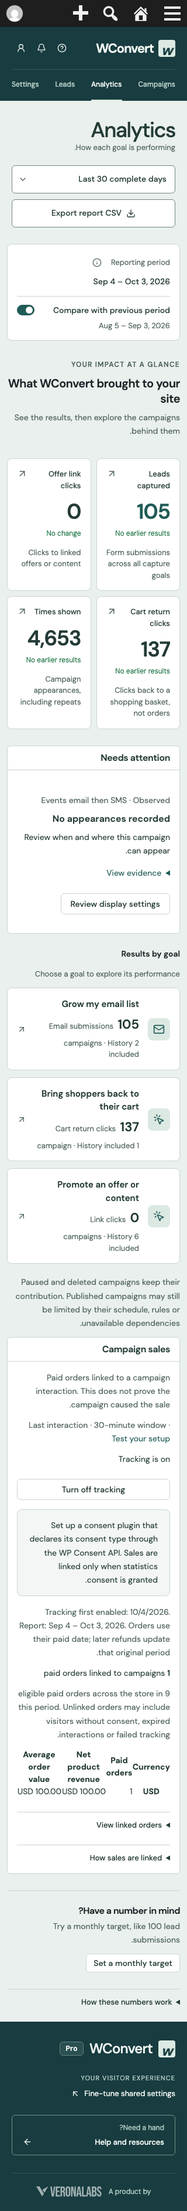
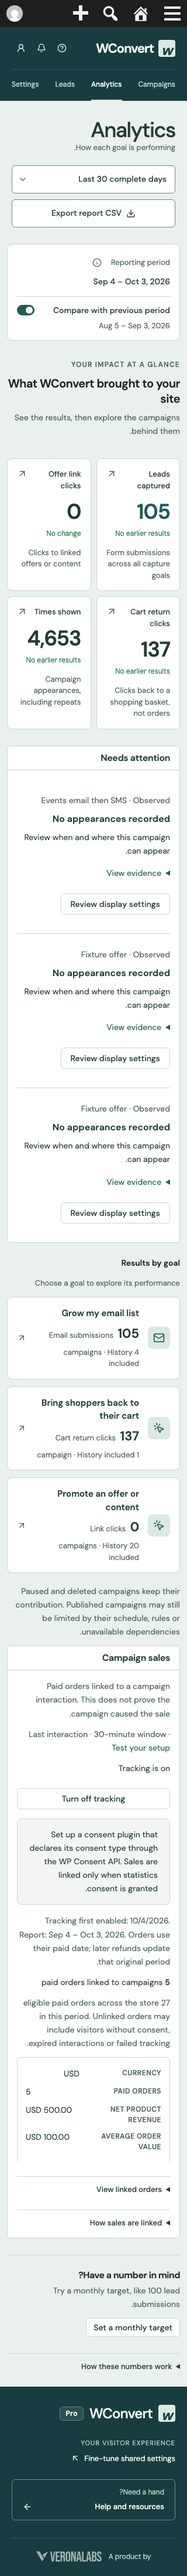
Harden analytics evidence, refresh states and attribution replay checks

diff --git a/pro/modules/analytics/admin/Revenue.tsx b/pro/modules/analytics/admin/Revenue.tsx
@@ -1,7 +1,9 @@
+import { DataTable, DataTableHead, DataTableBody, DataTableRow, DataTableColumn, DataTableCell } from '@/shell/DataTable';
+import { reportHref } from '@/nav';
 import { useEffect, useState } from 'react';
 import apiFetch from '@wordpress/api-fetch';
 import { __, sprintf } from '@wordpress/i18n';
-import { Region, RegionHeader, RegionBody } from '@/shell/Region';
+import { Region, RegionHeader, RegionBody, RegionError, RegionErrorState } from '@/shell/Region';
 import { Button } from '@/components/ui/button';
 import type { ReportExtensionProps } from '@/stats/extensions';
 import { formatCount } from '@/stats/format';
@@ -9,46 +11,50 @@ import { rangeLabel } from '@/stats/reporting';
 interface Report {
   guide_url: string; available: boolean; consent_ready: boolean; site_matches: boolean;
   settings: { enabled: boolean; since: string | null };
-  from?: string; to?: string; complete?: boolean; eligible_orders?: number; linked_orders?: number;
+  days?: number; month?: string; from?: string; to?: string; complete?: boolean; eligible_orders?: number; linked_orders?: number;
   currencies?: { currency: string; orders: number; amount: number | null; unallocated_refunds: number }[];
-  orders?: { paid: string; status: string; id: number; currency: string; amount: number | null; url: string | null }[];
+  orders?: { campaign: string; refunded: boolean; paid: string; status: string; id: number; currency: string; amount: number | null; url: string | null }[];
 }
 function money(amount: number | null, currency: string) {
   if (amount === null) return __('Unavailable', 'wconvert');
   try { return new Intl.NumberFormat(undefined, { style: 'currency', currency, currencyDisplay: 'code' }).format(amount); }
   catch { return `${amount.toFixed(2)} ${currency}`; }
 }
-export default function Revenue({ period, optinId }: ReportExtensionProps) {
-  const [report, setReport] = useState<Report | null>(null);
+export default function Revenue({ period, optinId, campaignNames = {} }: ReportExtensionProps) {
+  const [stored, setReport] = useState<(Report & { scope?: string }) | null>(null);
+  const report = stored?.scope === optinId ? stored : null;
+  const [updating, setUpdating] = useState(false);
   const [error, setError] = useState('');
   const [busy, setBusy] = useState(false);
   const [retry, setRetry] = useState(0);
   useEffect(() => {
     const controller = new AbortController();
-    setReport(null); setError('');
+    setUpdating(true); setError('');
     const params = new URLSearchParams({ complete: '1', days: String(Math.max(1, period.days)) });
     if (period.month) params.set('month', period.month);
     if (optinId) params.set('optin_id', optinId);
     void apiFetch<Report>({ path: `/wconvert/v1/revenue?${params}`, signal: controller.signal }).then(data => {
       if (controller.signal.aborted) return;
       if (data.from && (data.from !== period.from || data.to !== period.to)) throw new Error('period');
-      setReport(data);
-    }).catch(() => { if (!controller.signal.aborted) setError(__('Could not load campaign sales. Try again.', 'wconvert')); });
+      setReport({ ...data, scope: optinId, month: period.month });
+    }).catch(() => { if (!controller.signal.aborted) setError(__('Could not refresh campaign sales. Any totals below still use their displayed dates.', 'wconvert')); }).finally(() => { if (!controller.signal.aborted) setUpdating(false); });
     return () => controller.abort();
   }, [period.from, period.to, period.days, period.month, optinId, retry]);
   async function change(enabled: boolean) {
     setBusy(true); setError('');
-    try { await apiFetch({ path: '/wconvert/v1/revenue', method: 'POST', data: { enabled } }); setRetry(n => n + 1); }
+    try { const saved = await apiFetch<{ settings: Report['settings'] }>({ path: '/wconvert/v1/revenue', method: 'POST', data: { enabled } }); setReport(previous => previous ? { ...previous, settings: saved.settings, site_matches: true } : previous); setRetry(n => n + 1); }
     catch { setError(__('Could not save this setting. Try again.', 'wconvert')); }
     finally { setBusy(false); }
   }
   if (report && !report.available) return report.settings.since ? <Region><RegionHeader title={__('Campaign sales', 'wconvert')} /><RegionBody><p>{__('WooCommerce is unavailable. Tracking settings are retained; sales totals cannot be read.', 'wconvert')}</p></RegionBody></Region> : null;
+  const Failure = report ? RegionError : RegionErrorState;
   return <Region label={__('Campaign sales', 'wconvert')}>
     <RegionHeader title={__('Campaign sales', 'wconvert')} />
     <RegionBody>
       <p className="wa-muted">{__('Paid orders linked to a campaign interaction. This does not prove the campaign caused the sale.', 'wconvert')}</p>
-      {error && <p role="alert">{error} <Button variant="outline" onClick={() => setRetry(n => n + 1)}>{__('Retry', 'wconvert')}</Button></p>}
+      {error && <Failure message={error} action={<Button variant="outline" onClick={() => setRetry(n => n + 1)}>{__('Retry', 'wconvert')}</Button>} />}
       {!report && !error && <p role="status">{__('Loading campaign sales…', 'wconvert')}</p>}
+      {updating && report && <p role="status">{__('Updating sales. Showing the accepted report below.', 'wconvert')}</p>}
       {report && <>
         <p className="wa-muted">{__('Last interaction · 30-minute window', 'wconvert')} · <a href={report.guide_url} target="_blank" rel="noreferrer">{__('Test your setup', 'wconvert')}</a></p>
         {!optinId && <div className="wa-header-actions">
@@ -60,12 +66,20 @@ export default function Revenue({ period, optinId }: ReportExtensionProps) {
         {!report.consent_ready && <p className="wa-notice">{__('Set up a consent plugin that declares its consent type through the WP Consent API. Sales are linked only when statistics consent is granted.', 'wconvert')}</p>}
         {!report.site_matches && report.settings.since && <p className="wa-notice">{__('The site address changed. Turn on tracking again for this site.', 'wconvert')}</p>}
         {!report.settings.since ? <p>{__('Start tracking to link future checkouts. Earlier orders cannot be attributed.', 'wconvert')}</p> : <>
-          <p className="wa-muted">{sprintf(__('Tracking first enabled: %s. Report: %s. Orders use their paid date; later refunds update that original period.', 'wconvert'), new Date(report.settings.since).toLocaleDateString(), rangeLabel(period.from, period.to))}</p>
-          {period.days === 0 ? <p>{__('No complete days yet this month.', 'wconvert')}</p> : report.complete === false ? <p className="wa-notice">{__('This period is too large to total safely. Choose a shorter period. No partial totals are shown.', 'wconvert')}</p> : <>
+          <p className="wa-muted">{sprintf(__('Tracking first enabled: %s. Report: %s. Orders use their paid date; later refunds update that original period.', 'wconvert'), new Date(report.settings.since).toLocaleDateString(), report.from && report.to ? rangeLabel(report.from, report.to) : __('Not loaded yet', 'wconvert'))}</p>
+          {period.days === 0 ? <p>{__('No complete days yet this month.', 'wconvert')}</p> : report.complete === undefined ? <p>{__('Sales totals have not loaded yet.', 'wconvert')}</p> : report.complete === false ? <p className="wa-notice">{__('This period is too large to total safely. Choose a shorter period. No partial totals are shown.', 'wconvert')}</p> : <>
             <p><strong>{formatCount(report.linked_orders ?? 0)}</strong> {optinId ? __('paid orders linked to this campaign', 'wconvert') : __('paid orders linked to campaigns', 'wconvert')}</p>
             <p className="wa-muted">{sprintf(__('%s eligible paid orders across the store in this period. Unlinked orders may include visitors without consent, expired interactions or failed tracking.', 'wconvert'), formatCount(report.eligible_orders ?? 0))}</p>
-            {!!report.currencies?.length && <div className="wa-table-wrap"><table className="wa-table"><caption className="sr-only">{__('Linked product revenue by currency', 'wconvert')}</caption><thead><tr><th>{__('Currency', 'wconvert')}</th><th>{__('Paid orders', 'wconvert')}</th><th>{__('Net product revenue', 'wconvert')}</th><th>{__('Average order value', 'wconvert')}</th></tr></thead><tbody>{report.currencies.map(row => <tr key={row.currency}><th scope="row">{row.currency}</th><td>{formatCount(row.orders)}</td><td>{money(row.amount, row.currency)}{row.unallocated_refunds > 0 && <small className="block">{__('A refund has no product allocation.', 'wconvert')}</small>}</td><td>{money(row.amount === null ? null : row.amount / row.orders, row.currency)}</td></tr>)}</tbody></table></div>}
-            {!!report.orders?.length && <details className="wa-help"><summary>{__('View linked orders', 'wconvert')}</summary><p>{__('Up to 50 recent linked orders. Order links require WooCommerce order permissions.', 'wconvert')}</p><ul>{report.orders.map(order => <li key={order.id}>{order.url ? <a href={order.url}>#{order.id}</a> : `#${order.id}`} · {order.paid} · {order.status} · {money(order.amount, order.currency)}</li>)}</ul></details>}
+            {!!report.currencies?.length && <DataTable label={__('Linked product revenue by currency', 'wconvert')}>
+              <DataTableHead><DataTableColumn>{__('Currency', 'wconvert')}</DataTableColumn><DataTableColumn numeric>{__('Paid orders', 'wconvert')}</DataTableColumn><DataTableColumn numeric>{__('Net product revenue', 'wconvert')}</DataTableColumn><DataTableColumn numeric>{__('Average order value', 'wconvert')}</DataTableColumn></DataTableHead>
+              <DataTableBody>{report.currencies.map(row => <DataTableRow key={row.currency}>
+                <DataTableCell label={__('Currency', 'wconvert')}>{row.currency}</DataTableCell>
+                <DataTableCell label={__('Paid orders', 'wconvert')} numeric>{formatCount(row.orders)}</DataTableCell>
+                <DataTableCell label={__('Net product revenue', 'wconvert')} numeric>{money(row.amount, row.currency)}{row.unallocated_refunds > 0 && <small className="block">{__('A refund has no product allocation.', 'wconvert')}</small>}</DataTableCell>
+                <DataTableCell label={__('Average order value', 'wconvert')} numeric>{money(row.amount === null ? null : row.amount / row.orders, row.currency)}</DataTableCell>
+              </DataTableRow>)}</DataTableBody>
+            </DataTable>}
+            {!!report.orders?.length && <details className="wa-help"><summary>{__('View linked orders', 'wconvert')}</summary><p>{__('Up to 50 recent linked orders. Order links require WooCommerce order permissions.', 'wconvert')}</p><ul>{report.orders.map(order => <li key={order.id}>{order.url ? <a href={order.url}>#{order.id}</a> : `#${order.id}`} · <a href={reportHref({ optinId: order.campaign, month: report.month, days: report.days })}>{campaignNames[order.campaign] ?? `${__('Campaign', 'wconvert')} ${order.campaign}`}</a> · {order.paid} · {order.status}{order.refunded ? ` · ${__('Refund recorded', 'wconvert')}` : ''} · {money(order.amount, order.currency)}</li>)}</ul></details>}
           </>}
         </>}
         <details className="wa-help"><summary>{__('How sales are linked', 'wconvert')}</summary>

diff --git a/resources/admin/src/stats/JourneyReport.tsx b/resources/admin/src/stats/JourneyReport.tsx
@@ -1,7 +1,8 @@
+import { DataTable, DataTableHead, DataTableBody, DataTableRow, DataTableColumn, DataTableCell } from '../shell/DataTable';
 import apiFetch from '@wordpress/api-fetch';
 import { useEffect, useState } from 'react';
 import { __, sprintf } from '@wordpress/i18n';
-import { Region, RegionBody, RegionHeader } from '../shell/Region';
+import { Region, RegionBody, RegionHeader, RegionError, RegionErrorState } from '../shell/Region';
 import { Button } from '../components/ui/button';
 import type { DashboardPayload } from '../stats/api';
 interface Report {
@@ -14,40 +15,42 @@ const labels: Record<string, string> = {
   screen_skipped: __('Skipped', 'wconvert'), screen_dismissed: __('Dismissed', 'wconvert'),
 };
 export function JourneyReport({ id, period }: { id: string; period?: Pick<DashboardPayload, 'days' | 'month' | 'from' | 'to'> }) {
-  const [report, setReport] = useState<Report | null>(null);
+  const [stored, setReport] = useState<(Report & { campaign: string }) | null>(null);
+  const report = stored?.campaign === id && period?.days !== 0 ? stored : null;
+  const [updating, setUpdating] = useState(false);
   const [failed, setFailed] = useState(false);
   const [retry, setRetry] = useState(0);
   const days = period?.days, month = period?.month, from = period?.from, to = period?.to;
   useEffect(() => {
-    const controller = new AbortController(); setReport(null); setFailed(false);
+    const controller = new AbortController(); setUpdating(true); setFailed(false);
     if (days === 0) return () => controller.abort();
     const query = new URLSearchParams();
     if (days !== undefined) { query.set('days', String(days)); query.set('complete', '1'); }
     if (month) query.set('month', month);
     void apiFetch<Report>({ path: `/wconvert/v1/optins/${id}/journey-stats?${query}`, signal: controller.signal })
-      .then(value => { if (!controller.signal.aborted) { if (from && (value.from !== from || value.to !== to)) setFailed(true); else setReport(value); } })
-      .catch(() => { if (!controller.signal.aborted) setFailed(true); });
+      .then(value => { if (!controller.signal.aborted) { if (from && (value.from !== from || value.to !== to)) setFailed(true); else setReport({ ...value, campaign: id }); } })
+      .catch(() => { if (!controller.signal.aborted) setFailed(true); }).finally(() => { if (!controller.signal.aborted) setUpdating(false); });
     return () => controller.abort();
   }, [id, days, month, from, to, retry]);
+  const Failure = report ? RegionError : RegionErrorState;
   return <Region>
     <RegionHeader title={__('Signup and screen activity', 'wconvert')} level={3} description={report ? `${report.from} – ${report.to}${period ? '' : ` · ${__('Includes today', 'wconvert')}`}` : undefined} />
     <RegionBody>
       <p className="text-note">{__('Activity totals can overlap. They do not measure unique visitors or exact abandonment. Screen versions are reported separately.', 'wconvert')}</p>
-      {failed ? <p role="alert">{__('Could not load matching journey totals. Refresh this report and try again.', 'wconvert')} <Button variant="outline" onClick={() => setRetry(n => n + 1)}>{__('Retry', 'wconvert')}</Button></p>
-        : days === 0 ? <p>{__('No complete days in this period.', 'wconvert')}</p>
-        : report === null ? <p role="status">{__('Loading activity…', 'wconvert')}</p>
+      {updating && report && <p role="status">{__('Updating activity. Showing the dates above.', 'wconvert')}</p>}
+      {failed && <Failure message={__('Could not load matching journey totals. Any activity below still uses its displayed dates.', 'wconvert')} action={<Button variant="outline" onClick={() => setRetry(n => n + 1)}>{__('Retry', 'wconvert')}</Button>} />}
+      {days === 0 ? <p>{__('No complete days in this period.', 'wconvert')}</p>
+        : report === null ? (failed ? null : <p role="status">{__('Loading activity…', 'wconvert')}</p>)
         : report.rows.length === 0 ? <p>{__('No journey activity in this period.', 'wconvert')}</p> : <>
           {report.truncated && <p>{__('Showing the first 5,000 activity rows. Choose a shorter period for a complete view.', 'wconvert')}</p>}
-          {/* eslint-disable-next-line jsx-a11y/no-noninteractive-tabindex -- Keyboard users need to scroll the labeled table region. */}
-          <div className="wa-table-scroll" role="region" aria-label={__('Journey activity', 'wconvert')} tabIndex={0}>
-            <table className="wa-table"><thead><tr><th scope="col">{__('Channel or screen', 'wconvert')}</th><th scope="col">{__('Activity', 'wconvert')}</th><th scope="col">{__('Total', 'wconvert')}</th></tr></thead>
-              <tbody>{report.rows.map(row => {
+          <DataTable label={__('Journey activity', 'wconvert')}>
+            <DataTableHead><DataTableColumn>{__('Channel or screen', 'wconvert')}</DataTableColumn><DataTableColumn>{__('Activity', 'wconvert')}</DataTableColumn><DataTableColumn numeric>{__('Total', 'wconvert')}</DataTableColumn></DataTableHead>
+              <DataTableBody>{report.rows.map(row => {
                 const [group, revision, screen] = row.scope.split(':');
                 const name = group === 'channel' ? (revision === 'email_marketing' ? __('Email signup', 'wconvert') : __('SMS signup', 'wconvert'))
                   : `${report.definitions[revision]?.[screen]?.name ?? __('Screen', 'wconvert')} · ${sprintf(__('Version %d', 'wconvert'), Object.keys(report.definitions).indexOf(revision) + 1)}`;
-                return <tr key={`${row.scope}:${row.kind}`}><th scope="row">{name}</th><td>{labels[row.kind] ?? __('Accepted', 'wconvert')}</td><td>{Number(row.total).toLocaleString()}</td></tr>;
-              })}</tbody></table>
-          </div></>}
+                return <DataTableRow key={`${row.scope}:${row.kind}`}><DataTableCell label={__('Channel or screen', 'wconvert')}>{name}</DataTableCell><DataTableCell label={__('Activity', 'wconvert')}>{labels[row.kind] ?? __('Accepted', 'wconvert')}</DataTableCell><DataTableCell label={__('Total', 'wconvert')} numeric>{Number(row.total).toLocaleString()}</DataTableCell></DataTableRow>;
+              })}</DataTableBody></DataTable></>}
     </RegionBody>
   </Region>;
 }

diff --git a/resources/admin/src/stats/Interests.tsx b/resources/admin/src/stats/Interests.tsx
@@ -2,26 +2,32 @@ import apiFetch from '@wordpress/api-fetch';
 import { useEffect, useState } from 'react';
 import { __, sprintf } from '@wordpress/i18n';
 import type { DashboardPayload } from './api';
-import { Region, RegionBody, RegionHeader } from '../shell/Region';
+import { Region, RegionBody, RegionHeader, RegionError, RegionErrorState } from '../shell/Region';
 import { Button } from '../components/ui/button';
 interface Answers { questions: { question: string; answered: number; choices: { label: string; count: number }[] }[]; answered: number; choices: { label: string; count: number }[]; retained: number; truncated: boolean; from: string; to: string; }
 export function Interests({ id, period }: { id: string; period: DashboardPayload }) {
-  const [data, setData] = useState<Answers>();
+  const [stored, setData] = useState<Answers & { campaign: string }>();
+  const data = stored?.campaign === id ? stored : undefined;
+  const [updating, setUpdating] = useState(false);
   const [error, setError] = useState(false);
   const [retry, setRetry] = useState(0);
   const { days, month, from, to } = period;
   useEffect(() => {
-    const controller = new AbortController(); setData(undefined); setError(false);
+    const controller = new AbortController(); setUpdating(true); setError(false);
     if (days === 0) return () => controller.abort();
     const query = month ? `month=${encodeURIComponent(month)}` : `days=${days}`;
     void apiFetch<Answers>({ path: `/wconvert/v1/optins/${id}/interests?complete=1&${query}`, signal: controller.signal })
-      .then(value => { if (!controller.signal.aborted) { if (value.from !== from || value.to !== to) setError(true); else setData(value); } })
-      .catch(() => { if (!controller.signal.aborted) setError(true); });
+      .then(value => { if (!controller.signal.aborted) { if (value.from !== from || value.to !== to) setError(true); else setData({ ...value, campaign: id }); } })
+      .catch(() => { if (!controller.signal.aborted) setError(true); }).finally(() => { if (!controller.signal.aborted) setUpdating(false); });
     return () => controller.abort();
   }, [id, days, month, from, to, retry]);
-  if (days === 0 || (data && !data.answered && !data.questions?.length)) return null;
+  if (days === 0 || (data && !data.answered && !data.questions?.length && !updating && !error)) return null;
+  const Failure = data ? RegionError : RegionErrorState;
   return <Region><RegionHeader title={__('Submitted interests', 'wconvert')} level={3} description={__('Answers from leads first captured in this period. Later additions are included; anonymous answers are not.', 'wconvert')} /><RegionBody>
-    {error ? <p role="alert">{__('Could not load submitted interests.', 'wconvert')} <Button variant="outline" onClick={() => setRetry(n => n + 1)}>{__('Retry', 'wconvert')}</Button></p> : !data ? <p role="status">{__('Loading interests…', 'wconvert')}</p> : <>
+    {data && <p className="wa-muted">{data.from} – {data.to}</p>}
+    {updating && data && <p role="status">{__('Updating interests. Showing the dates above.', 'wconvert')}</p>}
+    {error && <Failure message={__('Could not load submitted interests. Any answers below still use their displayed dates.', 'wconvert')} action={<Button variant="outline" onClick={() => setRetry(n => n + 1)}>{__('Retry', 'wconvert')}</Button>} />}
+    {!data ? (error ? null : <p role="status">{__('Loading interests…', 'wconvert')}</p>) : <>
       {data.answered > 0 && <p>{sprintf(__('%d retained leads included an interest.', 'wconvert'), data.answered)}</p>}
       {data.truncated && <p>{__('Based on the latest 1,000 retained submissions. Choose a shorter period for a complete view.', 'wconvert')}</p>}
       <ul>{data.choices.map((choice, i) => <li key={i}>{choice.label}: <strong>{choice.count.toLocaleString()}</strong></li>)}</ul>

diff --git a/resources/admin/src/stats/Insights.tsx b/resources/admin/src/stats/Insights.tsx
@@ -1,3 +1,4 @@
+import { DataTable, DataTableHead, DataTableBody, DataTableRow, DataTableColumn, DataTableCell } from '../shell/DataTable';
 import { __ } from '@wordpress/i18n';
 import { Button } from '../components/ui/button';
 import { Region, RegionBody, RegionHeader } from '../shell/Region';
@@ -20,12 +21,12 @@ export function Insights({ items, query }: { items: Insight[]; query: ReportQuer
       <div><p className="wa-muted">{item.name} · {__('Observed', 'wconvert')}</p><h4>{item.title}</h4><p>{item.note}</p>
         <details><summary>{__('View evidence', 'wconvert')}</summary>
           <p className="wa-muted">{item.result_label} · {item.periods.from} – {item.periods.to}</p>
-          {/* eslint-disable-next-line jsx-a11y/no-noninteractive-tabindex -- Keyboard users need to scroll the labeled table region. */}
-          <div className="wa-table-scroll" role="region" aria-label={__('Insight evidence', 'wconvert')} tabIndex={0}>
-            <table className="wa-table"><thead><tr><th scope="col">{__('Period', 'wconvert')}</th><th scope="col">{__('Shown', 'wconvert')}</th><th scope="col">{__('Results', 'wconvert')}</th><th scope="col">{__('Rate', 'wconvert')}</th></tr></thead>
-              <tbody><tr><th scope="row">{__('Selected period', 'wconvert')}</th><td>{formatCount(item.facts.current.appearances)}</td><td>{formatCount(item.facts.current.results)}</td><td>{formatRate(item.facts.current.rate)}</td></tr>
-                {item.facts.previous && <tr><th scope="row">{item.periods.previous_from} – {item.periods.previous_to}</th><td>{formatCount(item.facts.previous.appearances)}</td><td>{formatCount(item.facts.previous.results)}</td><td>{formatRate(item.facts.previous.rate)}</td></tr>}
-              </tbody></table></div><p className="wa-muted">{item.limitation}</p>
+          <DataTable label={__('Insight evidence', 'wconvert')}>
+            <DataTableHead><DataTableColumn>{__('Period', 'wconvert')}</DataTableColumn><DataTableColumn numeric>{__('Shown', 'wconvert')}</DataTableColumn><DataTableColumn numeric>{__('Results', 'wconvert')}</DataTableColumn><DataTableColumn numeric>{__('Rate', 'wconvert')}</DataTableColumn></DataTableHead>
+            <DataTableBody>{[{ title: __('Selected period', 'wconvert'), facts: item.facts.current }, ...(item.facts.previous ? [{ title: `${item.periods.previous_from} – ${item.periods.previous_to}`, facts: item.facts.previous }] : [])].map(row => <DataTableRow key={row.title}>
+              <DataTableCell label={__('Period', 'wconvert')}>{row.title}</DataTableCell><DataTableCell label={__('Shown', 'wconvert')} numeric>{formatCount(row.facts.appearances)}</DataTableCell><DataTableCell label={__('Results', 'wconvert')} numeric>{formatCount(row.facts.results)}</DataTableCell><DataTableCell label={__('Rate', 'wconvert')} numeric>{formatRate(row.facts.rate)}</DataTableCell>
+            </DataTableRow>)}</DataTableBody>
+          </DataTable><p className="wa-muted">{item.limitation}</p>
           <a href={reportHref({ ...query, optinId: item.optin_id, goal: undefined, impact: undefined, experiment: undefined })}>{__('View campaign report', 'wconvert')}</a>
         </details>
       </div>

diff --git a/pro/tests/js/campaign-sales.test.tsx b/pro/tests/js/campaign-sales.test.tsx
@@ -1,0 +1,31 @@
+import { afterEach, expect, it, vi } from 'vitest';
+import { cleanup, render, screen } from '@testing-library/react';
+import userEvent from '@testing-library/user-event';
+import apiFetch from '@wordpress/api-fetch';
+import Revenue from '../../modules/analytics/admin/Revenue';
+vi.mock('@wordpress/api-fetch', () => ({ default: vi.fn() }));
+afterEach(() => { cleanup(); vi.clearAllMocks(); });
+const period = { days: 7, from: '2026-09-24', to: '2026-09-30' };
+const report = { ...period, guide_url: '/guide', available: true, consent_ready: true, site_matches: true, settings: { enabled: true, since: '2026-09-01T00:00:00Z' }, complete: true, eligible_orders: 3, linked_orders: 1, currencies: [{ currency: 'USD', orders: 1, amount: 10, unallocated_refunds: 0 }], orders: [{ id: 42, campaign: 'offer', paid: '2026-09-25', status: 'Completed', refunded: false, amount: 10, currency: 'USD', url: '/order/42' }] };
+it('retains accepted totals, dates and campaign links after a failed period change', async () => {
+  vi.mocked(apiFetch).mockResolvedValueOnce(report);
+  const view = render(<Revenue period={period} campaignNames={{ offer: 'Autumn offer' }} />);
+  await screen.findByRole('table', { name: 'Linked product revenue by currency' });
+  vi.mocked(apiFetch).mockRejectedValueOnce(new Error('offline'));
+  view.rerender(<Revenue period={{ ...period, days: 30, from: '2026-09-01' }} campaignNames={{ offer: 'Autumn offer' }} />);
+  await screen.findByRole('alert');
+  expect(screen.getByRole('cell', { name: 'USD' })).toHaveAttribute('data-label', 'Currency');
+  await userEvent.click(screen.getByText('View linked orders'));
+  const link = screen.getByRole('link', { name: 'Autumn offer' });
+  expect(link.getAttribute('href')).toContain('days=7');
+  expect(screen.getByText(/Report: Sep 24/)).toBeInTheDocument();
+});
+it('keeps a confirmed tracking setting when the following report refresh fails', async () => {
+  vi.mocked(apiFetch).mockResolvedValueOnce(report).mockResolvedValueOnce({ settings: { ...report.settings, enabled: false } }).mockRejectedValueOnce(new Error('offline'));
+  render(<Revenue period={period} />);
+  await userEvent.click(await screen.findByRole('button', { name: 'Turn off tracking' }));
+  await screen.findByRole('alert');
+  expect(screen.getByText('Tracking is off')).toBeInTheDocument();
+  expect(screen.getByRole('button', { name: 'Turn on tracking' })).toBeEnabled();
+  expect(screen.getByRole('table', { name: 'Linked product revenue by currency' })).toBeInTheDocument();
+});

diff --git a/pro/modules/analytics/loader/revenue.ts b/pro/modules/analytics/loader/revenue.ts
@@ -8,6 +8,13 @@ declare global {
   }
 }
 interface RevenueConfig { endpoint: string; campaigns: Record<string, CampaignMetadata>; }
+function eventId(): string {
+  if (crypto.randomUUID) return crypto.randomUUID();
+  const bytes = crypto.getRandomValues(new Uint8Array(16));
+  bytes[6] = (bytes[6] & 15) | 64; bytes[8] = (bytes[8] & 63) | 128;
+  const hex = Array.from(bytes, value => value.toString(16).padStart(2, '0')).join('');
+  return `${hex.slice(0, 8)}-${hex.slice(8, 12)}-${hex.slice(12, 16)}-${hex.slice(16, 20)}-${hex.slice(20)}`;
+}
 export function startRevenue(config: RevenueConfig) {
   const site = window as Window & { wp_consent_type?: string; wp_has_consent?: (category: string) => boolean };
   const permitted = () => {
@@ -19,11 +26,11 @@ export function startRevenue(config: RevenueConfig) {
   };
   const remember = (id: string, outcome: 'click' | 'quiz') => {
     if (!permitted() || (document as Document & { prerendering?: boolean }).prerendering || config.campaigns[id]?.outcome !== outcome) return;
-    send(new URLSearchParams({ id }));
+    send(new URLSearchParams({ id, event: eventId(), at: String(Math.floor(Date.now() / 1000)) }));
   };
   window.__wcvRevenue = session => ({ ...session, show(entry, controls) {
     const convert = controls.convert;
-    return session.show(entry, { ...controls, convert() { try { remember(entry.id, 'click'); } finally { convert(); } } });
+    return session.show(entry, { ...controls, convert() { try { remember(entry.id, 'click'); } catch { /* Optional tracking. */ } convert(); } });
   } });
   window.__wcvRevenueResult = id => remember(id, 'quiz');
   // Unknown consent does not create a session. A withdrawal clears only our pending value.

diff --git a/pro/tests/js/revenue-runtime.test.ts b/pro/tests/js/revenue-runtime.test.ts
@@ -1,6 +1,6 @@
 import { afterEach, expect, it, vi } from 'vitest';
-import { startRevenue } from '../../pro/modules/analytics/loader/revenue';
-import type { PresentationSession } from '../../resources/loader/src/types';
+import { startRevenue } from '../../modules/analytics/loader/revenue';
+import type { PresentationSession } from '../../../resources/loader/src/types';
 afterEach(() => { vi.unstubAllGlobals(); delete window.__wcvRevenue; delete window.__wcvRevenueResult; });
 it('records only a consented converting click or quiz result link and preserves the action', () => {
   const send = vi.fn().mockResolvedValue({}); vi.stubGlobal('fetch', send);
@@ -27,4 +27,13 @@ it('unknown consent creates no attribution', () => {
   startRevenue({ endpoint: '/tracking', campaigns: { quiz: { campaign: 'quiz', outcome: 'quiz', label: 'Quiz', goal: 'find_match' } } });
   window.__wcvRevenueResult!('quiz');
   expect(send).toHaveBeenCalledOnce(); expect(send.mock.calls[0][1].body.get('clear')).toBe('1');
+});
+
+it('generates a one-use event on HTTP sites without randomUUID', () => {
+  const send = vi.fn().mockResolvedValue({}); vi.stubGlobal('fetch', send);
+  vi.stubGlobal('wp_consent_type', 'optin'); vi.stubGlobal('wp_has_consent', () => true);
+  vi.stubGlobal('crypto', { getRandomValues: (bytes: Uint8Array) => bytes.fill(1) });
+  startRevenue({ endpoint: '/tracking', campaigns: { quiz: { campaign: 'quiz', outcome: 'quiz', label: 'Quiz', goal: 'find_match' } } });
+  window.__wcvRevenueResult!('quiz');
+  expect(send.mock.calls[0][1].body.get('event')).toMatch(/^[a-f0-9]{8}-[a-f0-9]{4}-4[a-f0-9]{3}-[89ab][a-f0-9]{3}-[a-f0-9]{12}$/);
 });

diff --git a/pro/docs/campaign-sales.html b/pro/docs/campaign-sales.html
@@ -20,5 +20,5 @@
 <h2>Test orders and privacy</h2>
 <p>WConvert cannot identify every gateway’s test mode. An integration can mark an order with <code>_wconvert_test_order</code> to exclude it. Test on a separate store and never assume a test payment on your live store is excluded automatically.</p>
 <p>Pending attribution requires statistics consent. Withdrawal clears it; already linked orders follow WooCommerce’s retention and erasure tools. While the tracking module is installed, WooCommerce’s order erasure also removes WConvert attribution. Removing the plugin stops this integration; existing order metadata then follows the store’s own deletion process.</p>
-<p>If tracking seems inactive, check consent configuration, whether the campaign is published and available, its analytics exclusion setting, the site address, and page/CDN caches. Managers and preview pages are excluded.</p>
+<p>If tracking seems inactive, check consent configuration, whether the campaign is published and available, its analytics exclusion setting, the site address, and page/CDN caches. Click requests expire after two minutes and are accepted once; a visitor clock more than two minutes from the server can prevent click attribution. Managers and preview pages are excluded.</p>
 </html>

diff --git a/tests/js/actionable-analytics.test.tsx b/tests/js/actionable-analytics.test.tsx
@@ -22,3 +22,15 @@ it('refuses journey numbers from a different reporting period', async () => {
   expect(vi.mocked(apiFetch).mock.calls[0][0].path).toContain('complete=1');
   expect(screen.queryByText('No journey activity in this period.')).not.toBeInTheDocument();
 });
+
+it('keeps accepted activity and its dates when a new period fails', async () => {
+  vi.mocked(apiFetch).mockResolvedValueOnce({ from: '2026-09-24', to: '2026-09-30', rows: [{ scope: 'channel:email_marketing', kind: 'channel_capture', total: '17' }], definitions: {}, days: 7 });
+  const view = render(<JourneyReport id="campaign" period={{ from: '2026-09-24', to: '2026-09-30', days: 7 }} />);
+  await screen.findByText('17');
+  vi.mocked(apiFetch).mockRejectedValueOnce(new Error('offline'));
+  view.rerender(<JourneyReport id="campaign" period={{ from: '2026-09-01', to: '2026-09-30', days: 30 }} />);
+  await screen.findByRole('alert');
+  expect(screen.getByText('17')).toBeInTheDocument();
+  expect(screen.getByText('2026-09-24 – 2026-09-30')).toBeInTheDocument();
+  expect(screen.getByRole('cell', { name: '17' })).toHaveAttribute('data-label', 'Total');
+});

diff --git a/pro/modules/journeys/loader/journey.ts b/pro/modules/journeys/loader/journey.ts
@@ -1,4 +1,3 @@
-import { observeResultClick } from '../../analytics/loader/bridge';
 import { requestCapture, type Reply } from '@loader/capture-request';
 import { protectionField } from '@loader/protection';
 import { journeyLabel } from '@loader/journey-labels';
@@ -36,7 +35,10 @@ export function bindJourney(mounted: Mounted, entry: PayloadEntry, options: Opti
   const resultAt = tree.steps.findIndex(screen => screen.kind === 'result');
   const resultFirst = isResultFirst(tree);
   const beacon = createBeacon(beaconEndpoint());
-  const resultClick = () => { beacon.report(entry.id, 'result_click'); beacon.flush(); observeResultClick(entry.id); };
+  const resultClick = () => {
+    beacon.report(entry.id, 'result_click'); beacon.flush();
+    try { window.__wcvRevenueResult?.(entry.id); } catch { /* Optional observer. */ }
+  };
   const counted = new Set<string>();
   const report = (kind: BeaconKind, index = step) => {
     const screen = tree.steps[index]; const key = `${screen.id}:${kind}`;

diff --git a/pro/tests/js/analytics-bridge.test.ts b/pro/tests/js/analytics-bridge.test.ts
@@ -4,7 +4,17 @@ import type { OptinControls, PayloadEntry } from '../../../resources/loader/src/
 
 const entry = { id: 'one' } as PayloadEntry;
 const controls = (): OptinControls => ({ impression: vi.fn(), dismiss: vi.fn(), convert: vi.fn() });
-afterEach(() => { delete window.__wcvObserve; vi.unstubAllGlobals(); });
+afterEach(() => { delete window.__wcvObserve; delete window.__wcvRevenue; vi.unstubAllGlobals(); });
+
+it('keeps revenue observation and presentation working if the external observer fails', () => {
+  window.__wcvObserve = () => { throw new Error('Broken external observer'); };
+  const revenue = vi.fn(session => session);
+  window.__wcvRevenue = revenue;
+  const show = vi.fn(); const acts = controls();
+  observePresentation({ show }).show(entry, acts);
+  expect(revenue).toHaveBeenCalledOnce();
+  expect(show).toHaveBeenCalledWith(entry, acts);
+});
 
 it('keeps the presenter functional when analytics is absent or its observer fails', () => {
   const show = vi.fn();

diff --git a/resources/admin/src/stats/Dashboard.tsx b/resources/admin/src/stats/Dashboard.tsx
@@ -430,7 +430,7 @@ export function Dashboard({
           </EmptyState>
         </Region>
       ) : null}
-      {payload && (overview || (optin && !selection.experiment)) && <CommerceReport period={payload} optinId={overview ? undefined : optin?.id} />}
+      {payload && (overview || (optin && !selection.experiment)) && <CommerceReport period={payload} campaignNames={Object.fromEntries(payload.goals.flatMap(goal => goal.optins.map(campaign => [campaign.id, campaign.name])))} optinId={overview ? undefined : optin?.id} />}
       {payload && !overview && <Insights items={insights} query={accepted} />}
       {payload && optin && !selection.experiment && <><JourneyReport id={optin.id} period={payload} /><Interests id={optin.id} period={payload} /></>}
       {payload && overview && payload.goals.length > 0 && <MonthlyTargets report={targets} />}
